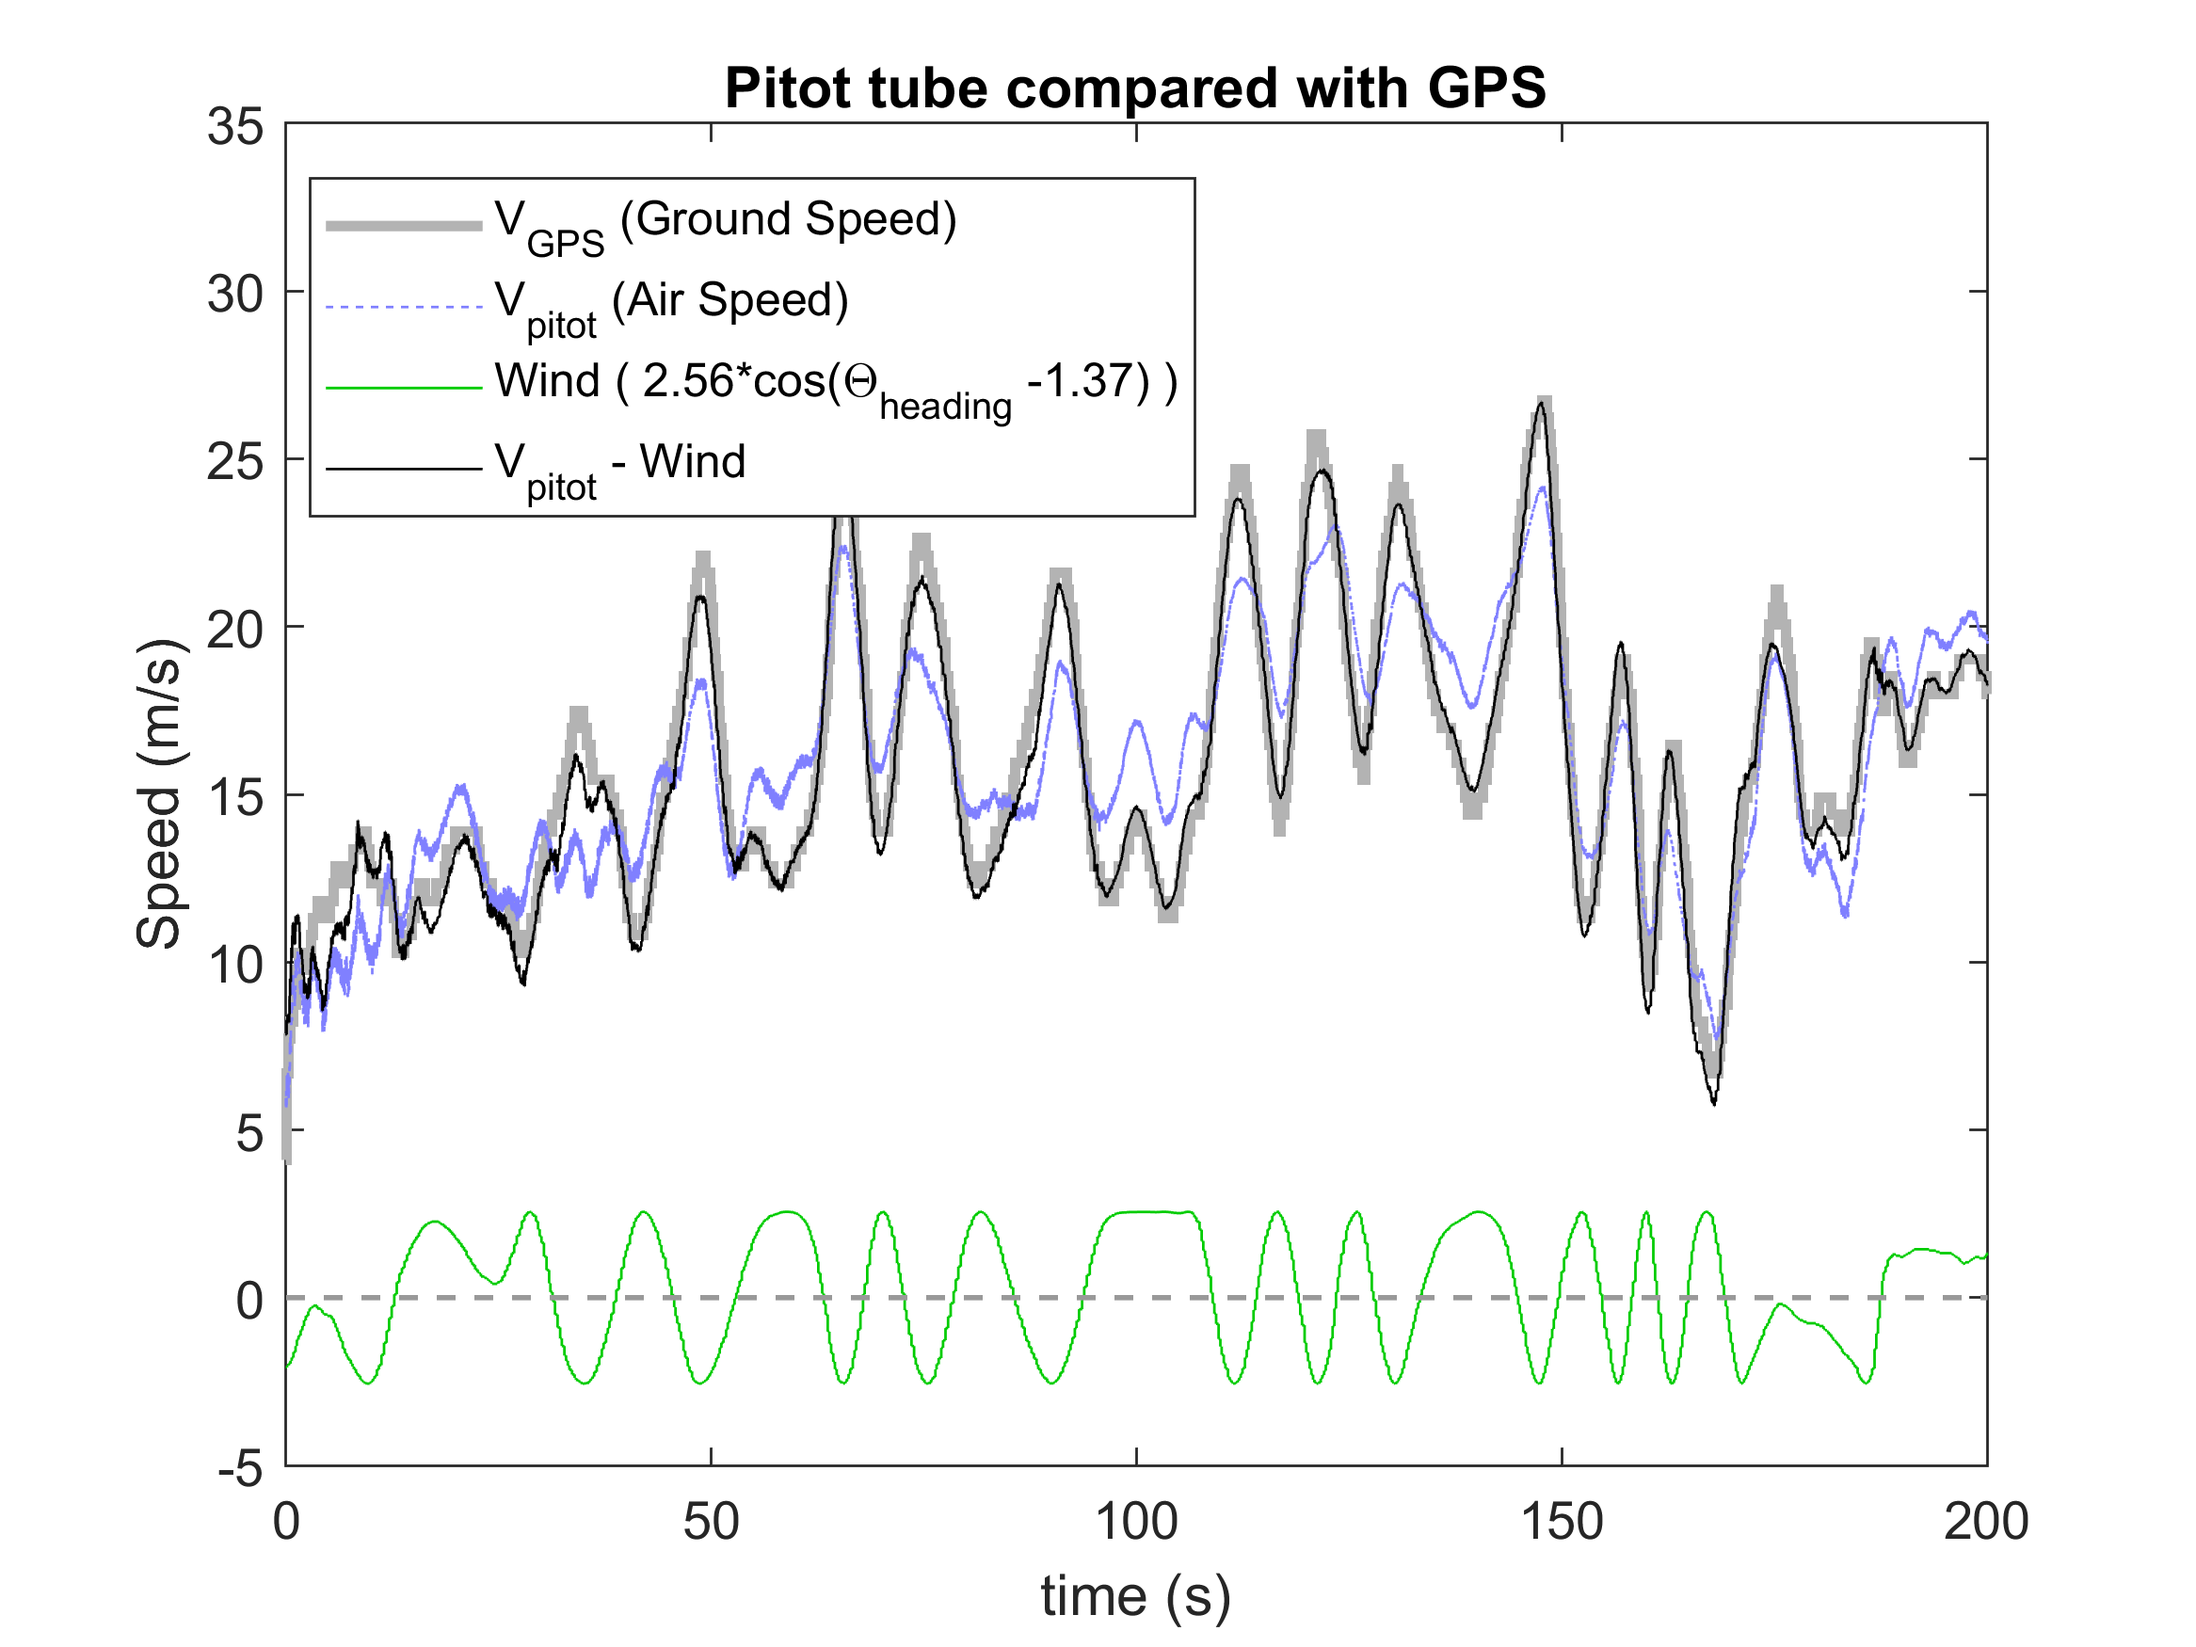
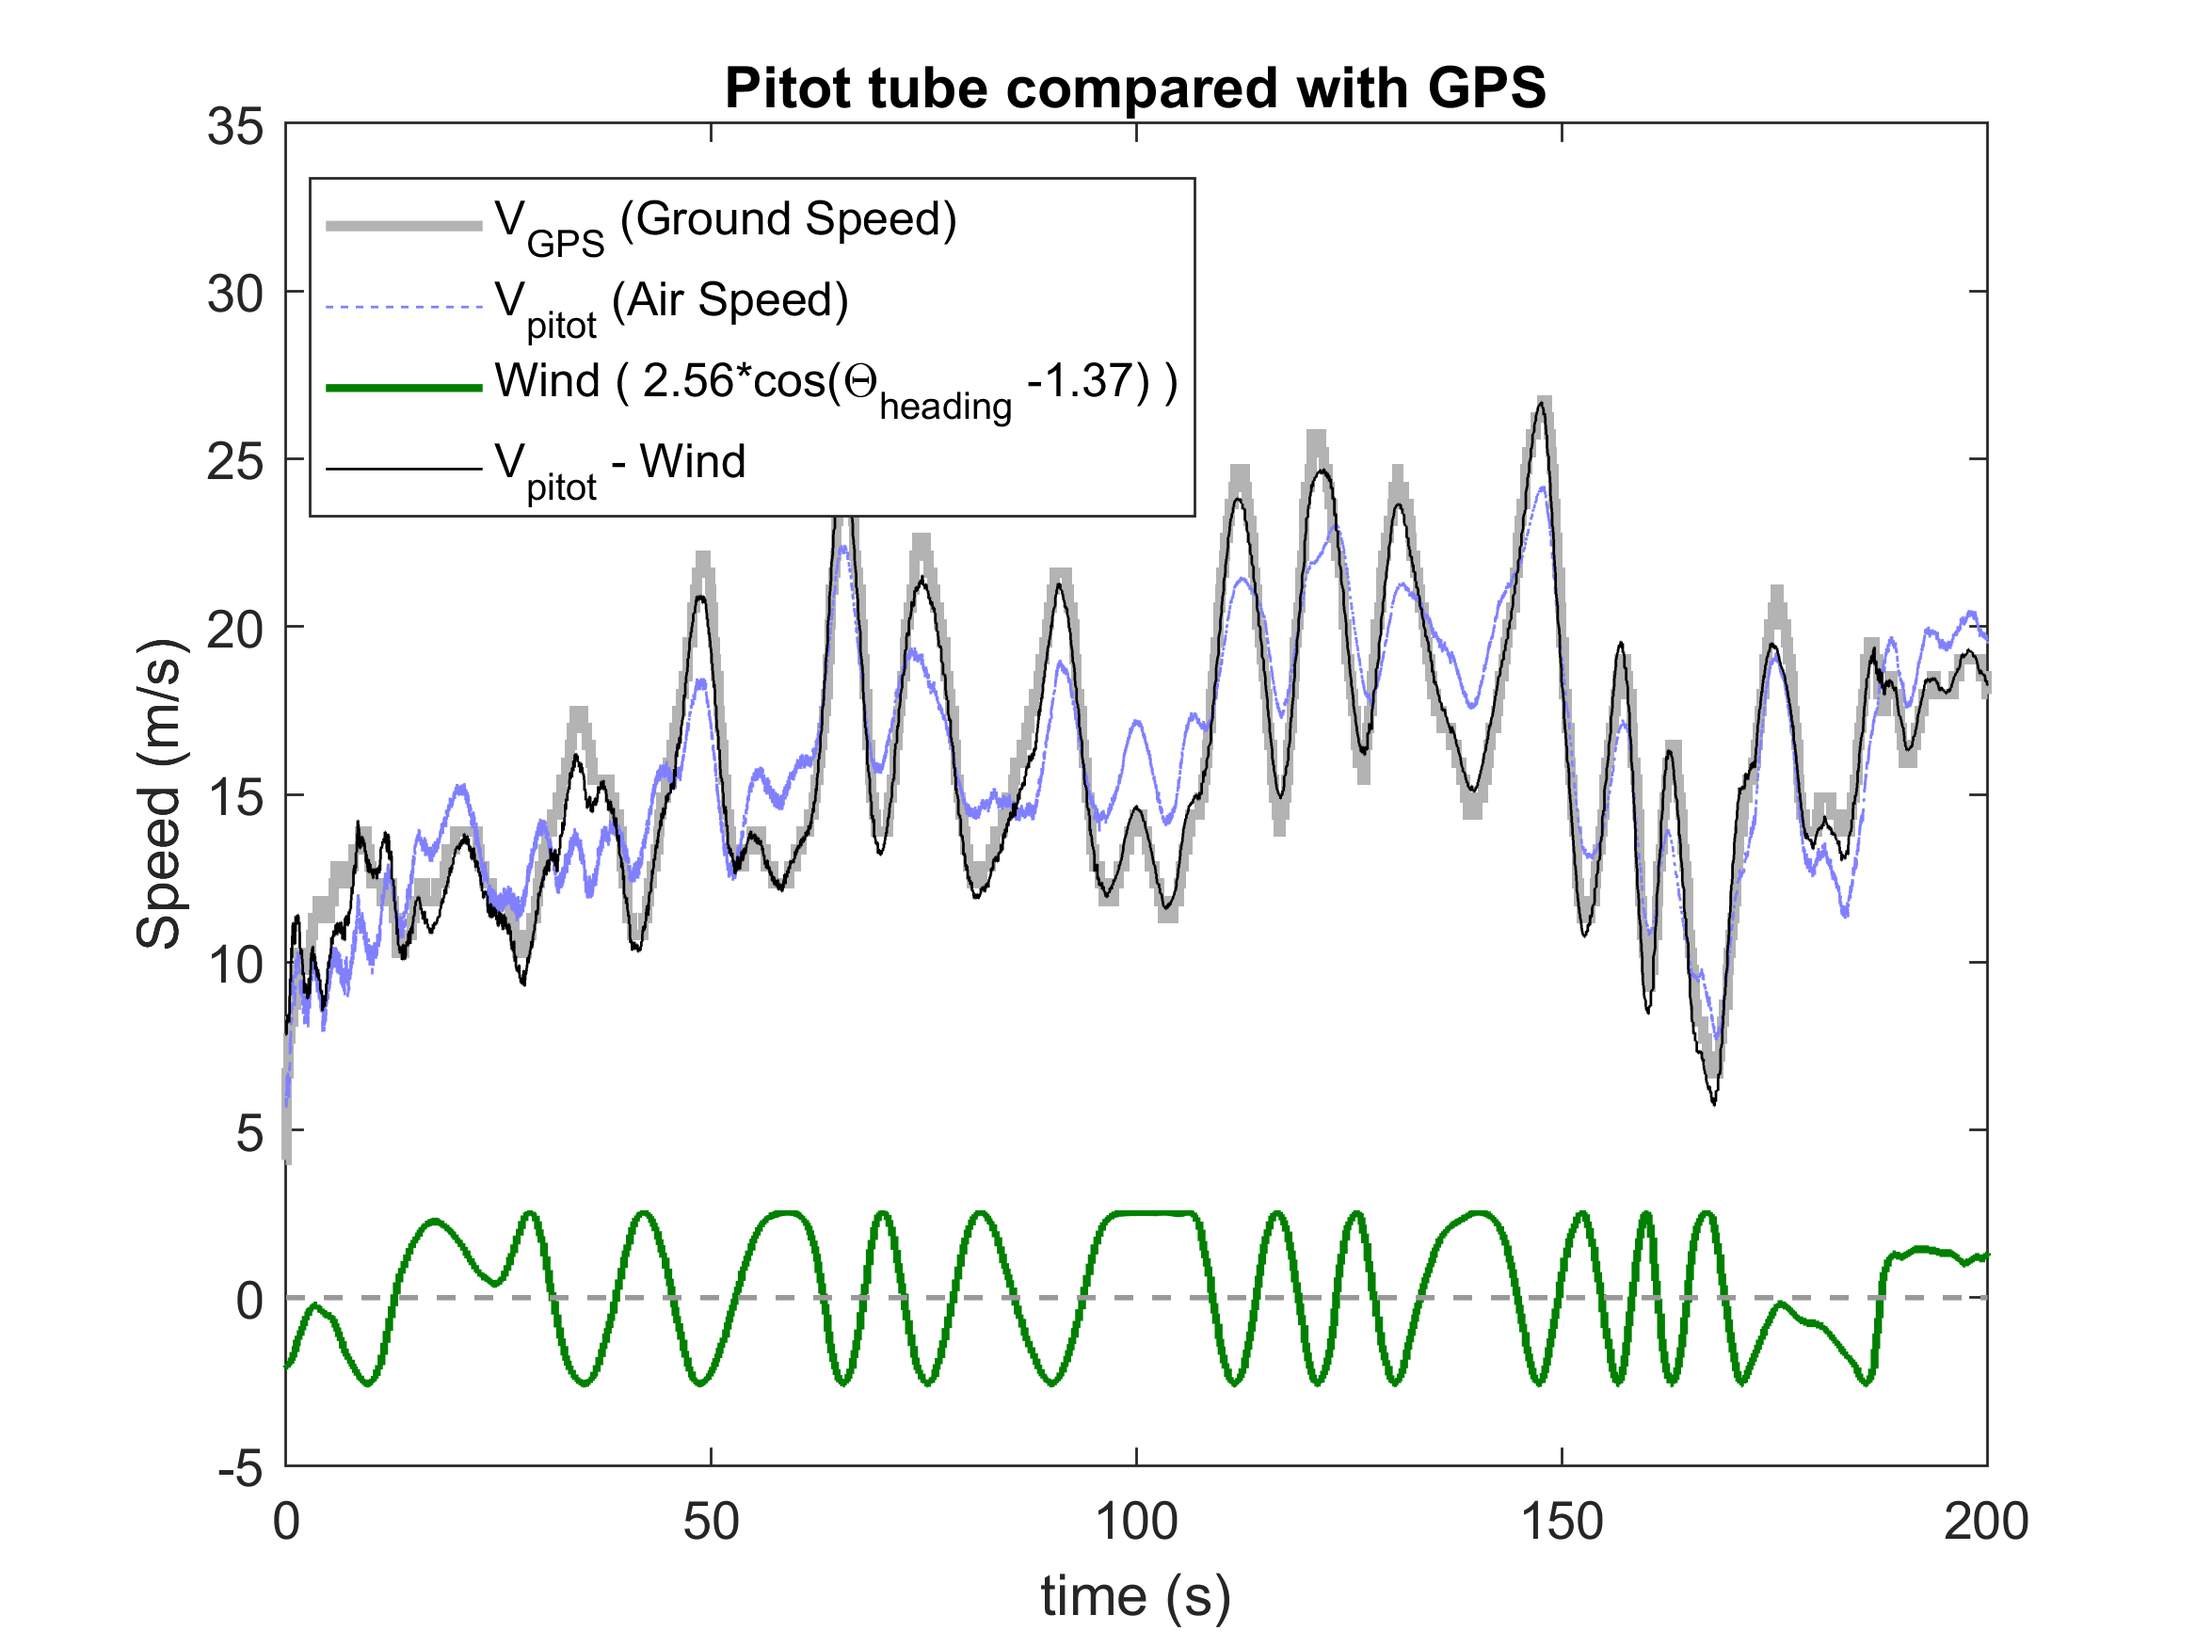
Updated pitot with figs

diff --git a/content/post/pitot-build/index.md b/content/post/pitot-build/index.md
@@ -13,7 +13,7 @@ categories:
   - sensor
 date: 2019-05-28
 #lastmod: "2019-04-12T00:00:00Z"
-featured: false
+featured: true
 draft: false
 
 # Featured image
@@ -49,6 +49,8 @@ highlight: true
 ---
 <!-- Enable Photo Swipe + gallery features -->
 {{< load-photoswipe >}}
+
+{{% toc %}}
 
 ## Principle
 
@@ -124,7 +126,7 @@ Table below provide theoretical differential pressure expected for various speed
 
 The pressure sensor is placed close (~10cm) to the pitot tube on the wing. The analog to digital conversion is also done on site to avoid noise pollution of analog signal. The [MCP3428](https://www.microchip.com/wwwproducts/en/MCP3428) from Microchip is a high resolution sigma-delta converter with four differential inputs and a programmable gain factor from 1 to 8. It has a digital I2C interface to connect to the dsPIC. 
 
-The [MP3V5004dp](https://www.nxp.com/part/MP3V5004DP) output analog signal is connected to the [MCP3428](https://www.microchip.com/wwwproducts/en/MCP3428) Sigma-Delta ADC through a first order RC low pass filter with a cut off frequency at $28Hz$ ($R=5.6 kOhm$,$C=1\mu F$). The 2nd differential input is connected on a voltage divisor with 1.2k and 560 ohms to the 3.3V ref and GND. $10\mu F$ decoupling capacitor are used on power supply. The I2C bus lines are pulled up with 10kOhm and are connected to a 10pf capacitor protecting from glitches.
+The [MP3V5004dp](https://www.nxp.com/part/MP3V5004DP) output analog signal is connected to the [MCP3428](https://www.microchip.com/wwwproducts/en/MCP3428) Sigma-Delta ADC through a first order RC low pass filter with a cut off frequency at $28Hz$ ($R=5.6 kOhm$,$C=1\mu F$). The 2nd differential input is connected on a voltage divisor with 1.2k and 560 ohms to the 3.3V ref and GND. $10\mu F$ decoupling capacitor are used on power supply. The I2C bus wires are pulled up with 10kOhm and are connected to a 10pf capacitor protecting from glitches.
 
 The ADC Sigma-Delta is configured for 
 
@@ -162,7 +164,7 @@ numbered="true"
 
 The sensor is sensitive to its own orientation. Moving the sensor up-side down create an offset of (100 LSB[^LSB]; to be checked).
 
-## Installation
+## Flight setup
 
 The sensor is mounted on the wing of a FirStar 1600 RC plane.
 
@@ -175,8 +177,7 @@ caption="Platform used for testing with pitot sensor."
 numbered="true"
 >}}
 
-
-A 2mm flexible tube originally used to protect fish lines connect the pitot tube with the sensor.
+A 2mm flexible tube, originally for protecting fish lines, connect the sensor to the pitot tube.
 
 {{< figure 
 src="/img/pitot-darcy-prandtl-tubesoupledecathlon.jpg"
@@ -208,11 +209,7 @@ numbered="true"
 
 ## Results
 
-### Comparison with GPS ground speed {#gps-vs-air-speed}
-
-The pitot tube differential pressure is converted to speed with $V=\sqrt{\frac{2}{\rho}*P_{diff}}$ with $\rho = 1.2$.
-
-The MCP3428 sampled $P_{diff}$ at 250Hz during flights.
+The MCP3428 samples $P\_{diff}$ at 250Hz during flights. $V\_{pitot}=\sqrt{\frac{2}{\rho}*P\_{diff}}$ with $\rho = 1.2$.
 
 Matlab script converting 250Hz raw MCP3428 to Pressure (Pa) and Speed (m/s):
 
@@ -224,33 +221,45 @@ P_pitot_cal =  0.2041* (double(P_pitot) + 1800);	% to Pa unit
 V_pitot = sqrt(max(0,(2/1.2) * P_pitot_cal));
 ```
 
-The Ground Speed (GPS Velocity) and the Air Speed (pitot) measurements are theoretically similar in absence of wind. In presence of a constant wind, the direction and strength can be estimated combining the airspeed with the ground speed and the plane yaw direction.
+### Comparison with GPS ground speed {#gps-vs-air-speed}
 
-With the wind strength and direction known, the airplane ground speed (GPS) is obtained by adding the projected wind to the aircraft forward direction to the air speed (pitot). The figure below presents the air speed in dashed blue. The air-speed measurement shows a good sensitivity even at low speed. The reconstructed ground speed (thin black line) matches with the GPS velocity (large grey line) which prove the accuracy of the measurement. The estimation of the wind strength and direction is described [below](#wind-estimation).
+In calm condition, the Ground Speed $V\_{GPS}$ and Air Speed $V\_{pitot}$ are equal.
 
- {{< figure 
+In windy condition, wind average direction and strength are estimated combining $V\_{GPS}$, $V\_{pitot}$ and the plane yaw $\Theta\_{heading}$ direction (using GPS COG[^COG]). This  [wind estimation](#wind-estimation) is described below.
+
+The airplane ground speed (GPS) is estimated with the difference of the air speed (pitot) with the projected wind to the aircraft forward direction:
+
+ $V\_{GPS} \approx V\_{pitot} - V_{wind}*cos(\Theta\_{heading} + \Theta\_{wind}) $
+
+The figure below presents the air speed in dashed blue. The reconstructed ground speed (thin black) matches accurately with the GPS velocity (large grey) which prove the correctness of the air-speed measurement as well as the wind strength and direction. The onshore wind is laminar with limited turbulences. The air-speed measurement presents a high  sensitivity even at low speed.
+
+{{< figure 
 src="/img/pitot-darcy-prandtl-gps-wind-calibration.png"
 link="/img/pitot-darcy-prandtl-gps-wind-calibration.png"
 width="100%"
-title="GPS Speed over ground (large grey), Pitot air-speed (dashed blue) with parameter $\rho=1.2$. Pitot air-speed minus wind estimated (black curve). Wind impact is reconstructed from the GPS COG angle ($\approx \theta\_{heading}$), and the estimated wind strength (2.5 m/s) and direction (101°)."
-caption="GPS (grey curve) and Pitot minus Wind (black curve) matches. Data log of the first 200s of the Firstar 1600 RC plane flight. On the black curve, the pitot is averaged and undersampled by group of 5 samples reducing its sampling rate from 250Hz to 50Hz. The GPS ground speed is correctly estimated based on the pitot tube measurement."
-numbered="true"
->}}
+title="GPS Speed over ground (large grey). Pitot air-speed (dashed blue) with parameter $\rho=1.2$. Reconstructed up-front wind (green). Pitot air-speed minus wind estimated (large green). up-front wind is estimated from the GPS COG angle ($\approx \theta\_{heading}$), and the estimated wind strength ($V\_{wind}= 2.5 m/s$) and direction ($\theta\_{wind} = 101°$)."
+caption="Data log of the first 200s of the Firstar 1600 RC plane flight. On the black curve, the pitot is averaged and undersampled by group of 5 samples reducing its sampling rate from 250Hz to 50Hz. GPS (grey curve) and Pitot minus Wind (black) matches."
+numbered="true" >}}
 
-The remaining error might be sensor error, but also wind gust and GPS accuracy limitation particularly at estimating vertical speed changes (During flight, the plane speed was change through rapid dive to test the pitot tube on a wide range).
+Remaining error might be due to wind gust and GPS limited accuracy particularly at estimating vertical speed variations (During flight, the plane speed was change through climb/dive to log pitot tube reactions on a wide air-speed range).
 
 ### Wind estimation {#wind-estimation}
 
-The comparison of the pitot tube with the GPS ground speed require to estimate the wind strength and direction.  
+Wind model considered  is constant and characterized by 
 
-The curve below shows the difference between the Ground speed (GPS) with the air speed (pitot) in function of the plane flight direction. This error (blue dashed points) fit with a sine wave which is the offset added by a wind constant in strength and direction.
+- its constant direction $\Theta\_{wind}$
+- its constant strength $V\_{wind}$
+
+#### Wind => $V\_{pitot} - V\_{gps}$
+
+The curve below shows the difference between the Ground speed (GPS) with the air speed (pitot) in function of the plane flight direction. This error (blue dashed points) fit with a sine wave. This sine wave is the speed offset added for each plane direction in $[0 \ 2\pi]$ by a wind with a constant strength and direction. Sine wave amplitude and phase is the wind strength and direction.
 
 {{< figure 
 src="/img/pitot-darcy-prandtl-speed-error-wind-estimation.png"
 link="/img/pitot-darcy-prandtl-speed-error-wind-estimation.png"
 width="100%"
 title="GPS ground speed and pitot air speed difference in function of the plane direction during the 450s flight of a Firstar 1600."
-caption="Blue dots are speed difference between GPS and pitot. The continuous black line is the wind sine wave projection on the $\Theta\_{heading}$ forward direction. Sine phase is wind direction ($(\pi-1.37*\frac{180}{\pi})=101°$, from East to West) and sine amplitude is wind strength (2.56m/s). Pitot values are averaged and under-sample by a factor 5."
+caption="Blue dots are speed difference between GPS and pitot. The continuous green curve is the wind sine wave projection on the $\Theta\_{heading}$ plane direction. Sine phase is wind direction ($(\pi-1.37*\frac{180}{\pi})=101°$, from East to West) and sine amplitude is wind strength (2.56m/s). Pitot values are averaged and under-sample by a factor 5."
 numbered="true"
 >}}
 
@@ -258,7 +267,7 @@ This wind estimation is used to compensate the air-speed when comparing the GPS 
 
 #### Script
 
-Matlab script used for off-line wind estimation:
+Matlab script to estimate wind off-line:
 
 ```matlab
 % V_gps and V_pitot are two vector with all data measured.
@@ -280,19 +289,19 @@ plot([0:.01:(2*pi)],V_Wind*(cos([0:.01:(2*pi)]+ Theta_Wind)),'-k','linewidth',3)
 
 #### Discussion
 
-Using the GPS COG[^COG] field is not exactly the plane yaw direction $\Theta\_{heading}$ but the plane forward direction.
+Using the GPS COG[^COG] field is not exactly the plane yaw direction $\Theta\_{heading}$ but the plane flight direction.
 Thus the COG is a biased plane yaw $\Theta\_{heading}$ direction. It would be best to use plane orientation from the IMU sensor. It is not done here to reduce the number of sensors for this demonstration. The COG bias is small enough if we assume the wind speed to be small compared to the airplane air speed. It might be possible with a more sophisticated script to compensate this bias.
 
 #### Other flight inputs
 
-Plane was equipped with two GPS chip:
+Plane was equipped with two GPS:
 
 - one uBlox M8N GPS and 
 - one MTK3339.
   
-The uBlox trace presented on the map below is better than the MTK trace. The uBlox chip was used for the curves above. The MTK trace can be shown on the map (top left icon).The KML file can be opened with Google Earth which provide a 3D view of the trace showing the height of the plane.
+The uBlox trace presented on the map below is better than the MTK trace. The uBlox chip was used exclusively for the curves above. The MTK trace can be shown on the [map](https://www.google.com/maps/d/u/0/embed?mid=1-K7dsmfbMCDL3IQK1z3IEtSduB2OWXr9) (top left icon). The KML file can be opened with Google Earth which provide a 3D view of the trace showing the height of the plane.
 
-<iframe src="https://www.google.com/maps/d/u/0/embed?mid=1-K7dsmfbMCDL3IQK1z3IEtSduB2OWXr9" width="640" height="480"></iframe>
+<iframe src="https://www.google.com/maps/d/u/0/embed?mid=1-K7dsmfbMCDL3IQK1z3IEtSduB2OWXr9" style="width: 100% ; height: 480px"></iframe>
 
 <!--
 C:\M91449\MCHP_Blockset\Projects\2017_10_Autopilote\2018_04_12_LogChampdeTir_PitotNum_magOk_LowWind -->
